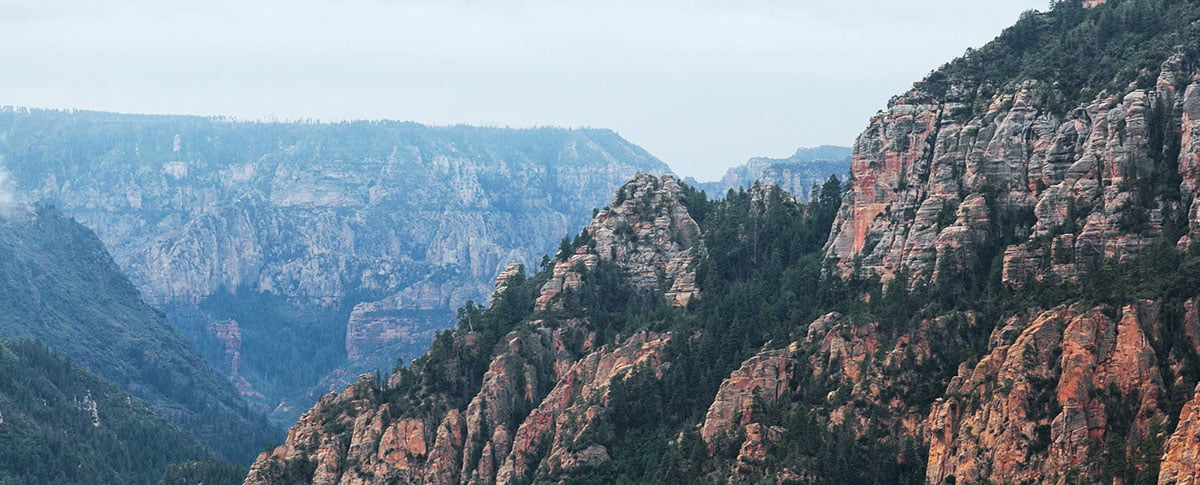
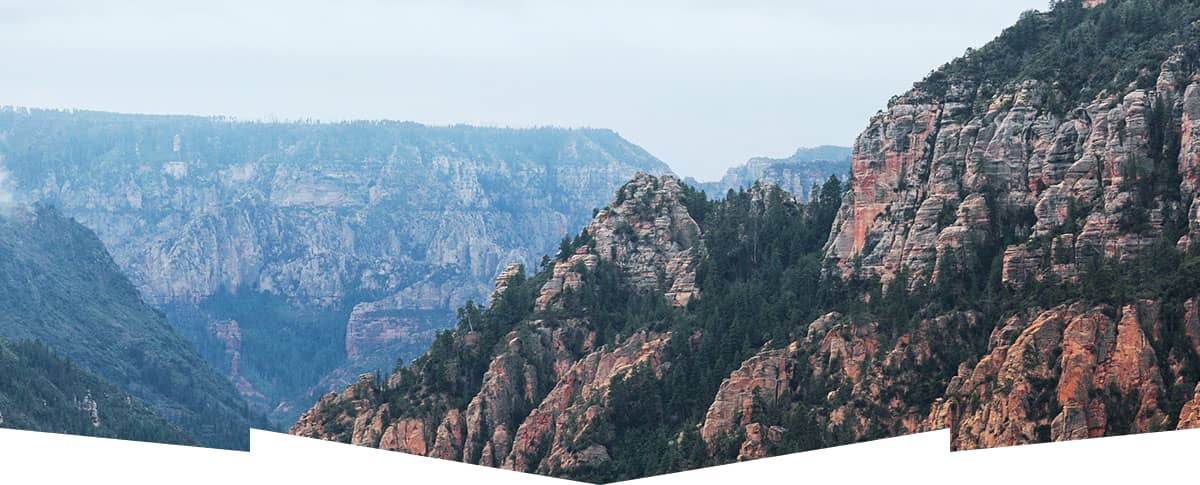
Задал  всем блокам на главной странице, кроме блока с преимуществами  высоту и ширину через паддинги, а также поудалял лишний код

Changed region(s): [[0.0, 0.866, 1.0, 1.0]]

diff --git a/index.html b/index.html
@@ -42,14 +42,11 @@
     <main class="main-containter main-index">
         <div class="background-index">
           <img class="background-index-img" alt="Welcome to the gorgeous Sedona, because the Grand Canyon sucks!" src="images/welcome.svg" width="458" height="352">
-          <img class="background-index-img" alt="Белая полоса с выступами" src="images/strip-preview.svg" width="1200" height="57">
         </div>
         <section class="reason-items">
-          <div class="reason-items-containter">
             <h1 class="visually-hidden">Преимущества Седоны</h1>
-            <p class="reason-item">Седона — небольшой городок в Аризоне, заслуживающий большего!</p>
-            <p class="reason-item">Рассмотрим причины, по которым Седона круче, чем Гранд-Каньон!</p>
-          </div>
+            <p class="reason-item-title">Седона — небольшой городок в Аризоне, заслуживающий большего!</p>
+            <p class="reason-item-subtitle">Рассмотрим причины, по которым Седона круче, чем Гранд-Каньон!</p>
         </section>
       <section class="advantages-items">
         <h2 class="visually-hidden">Причины, по которым выбирают Седону</h2>
@@ -89,8 +86,8 @@
       <section class="holiday-items">
           <div class="holiday-items-container">
             <h2 class="visually-hidden">Отдых в Седоне</h2>
-            <p class="holiday-item">Приезжайте в Седону отдохнуть в комфорте и уюте!</p>
-            <p class="holiday-item">Опытный персонал и качественное обслуживание!</p>
+            <p class="holiday-item-title">Приезжайте в Седону отдохнуть в комфорте и уюте!</p>
+            <p class="holiday-item-subtitle">Опытный персонал и качественное обслуживание!</p>
         </div>
       </section>
       <section class="more-reason-items">
@@ -117,15 +114,16 @@
         </div>
       </section>
       <div class="subscribe">
-        <div class="subscribe-items">
           <h2 class="subscribe-title">Подпишитесь на рассылку</h2>
           <p class="subscribe-subtitle">Только полезная информация и никакого спама, честное бойскаутское!</p>
           <form class="subscribe-form" action="https://echo.htmlacademy.ru/" method="post">
-            <label for="subscribe-email">Email</label>
-            <input required type="email" id="subscribe-email" name="subscribe-email" placeholder="Ваш e-mail">
+            <!-- Правильно ли я сверстал рассылку? -->
+            <label for="subscribe-email">
+              <input required type="email" id="subscribe-email" name="subscribe-email" placeholder="Ваш e-mail">
+            </label>
+            <!-- Правильно ли я сверстал рассылку? -->
             <button class="subscribe-button" type="submit">Подписаться</button>
           </form>
-        </div>
       </div>
       </main>
       <footer class="page-footer">

diff --git a/styles/styles.css b/styles/styles.css
@@ -109,50 +109,30 @@ ul, ol {
 }
 
 .background-index {
-  width: 1200px;
-  height: 485px;
   background-image: url("../images/background-preview.jpg");
   background-size: cover;
   background-position: center;
   background-color: rgba(11, 107, 136, 0.726);
-  position: relative;
-}
-
-.background-index-img:first-child {
-  position: absolute;
-  top: 50%;
-  left: 50%;
-  transform: translate(-50%, -50%);
-  display: block;
-}
-
-.background-index-img:last-child {
-  position: absolute;
-  bottom: 0;
-  left: 50%;
-  transform: translateX(-50%);
-  display: block;
+  text-align: center;
+  padding: 50px 371px 79px;
 }
 
 .reason-items {
-  margin: 0;
-}
-
-.reason-items-containter {
   width: 650px;
   margin: auto;
   padding: 69px 275px;
+  text-align: center;
 }
 
 
-.reason-item {
+.reason-item-title {
   font-weight: 700;
   font-size: 30px;
   line-height: 36px;
   text-transform: uppercase;
 }
 
-.reason-item:last-child {
+.reason-item-subtitle {
   text-transform: none;
   font-size: 22px;
   line-height: 26px;
@@ -237,23 +217,20 @@ ul, ol {
 }
 
 .holiday-items {
-  margin: 0;
-}
-
-.holiday-items-container {
   width: 505px;
   margin: auto;
   padding: 64px 348px;
+  text-align: center;
 }
 
-.holiday-item {
+.holiday-item-title {
   font-weight: 700;
   font-size: 30px;
   line-height: 36px;
   text-transform: uppercase;
 }
 
-.holiday-item:last-child {
+.holiday-item-subtitle {
   font-size: 22px;
   line-height: 26px;
   text-transform: none;
@@ -287,9 +264,8 @@ ul, ol {
 }
 
 .search-hotels-container {
-  width: 592px;
   margin: auto;
-  padding: 96px 304px;
+  padding: 94px 304px;
   display: flex;
   flex-direction: column;
   text-align: center;
@@ -319,22 +295,11 @@ ul, ol {
 }
 
 .subscribe {
-  width: 1200px;
-  height: 414px;
   background-image: url("../images/background-subscribe.jpg");
   background-size: cover;
   background-color: rgba(11, 107, 136, 0.726);
-  position: relative;
-}
-
-.subscribe-items {
-  width: 684px;
-  height: 214px;
   text-align: center;
-  position: absolute;
-  top: 50%;
-  left: 50%;
-  transform: translate(-50%, -50%);
+  padding: 73px 258px 73px 258px;
 }
 
 .subscribe-title {
@@ -348,7 +313,6 @@ ul, ol {
 .subscribe-subtitle {
   color: #FFFFFF;
   font-size: 22px;
-  font-weight: 400;
   line-height: 26px;
 }
 
@@ -472,6 +436,16 @@ ul, ol {
 .control-input {
   font-weight: 700;
   line-height: 24px;
+}
+
+input::-webkit-outer-spin-button,
+input::-webkit-inner-spin-button {
+  -webkit-appearance: none;
+  margin: 0;
+}
+
+input[type=number] {
+  -moz-appearance:textfield;
 }
 
 .hotels-sedona-filter-button {
